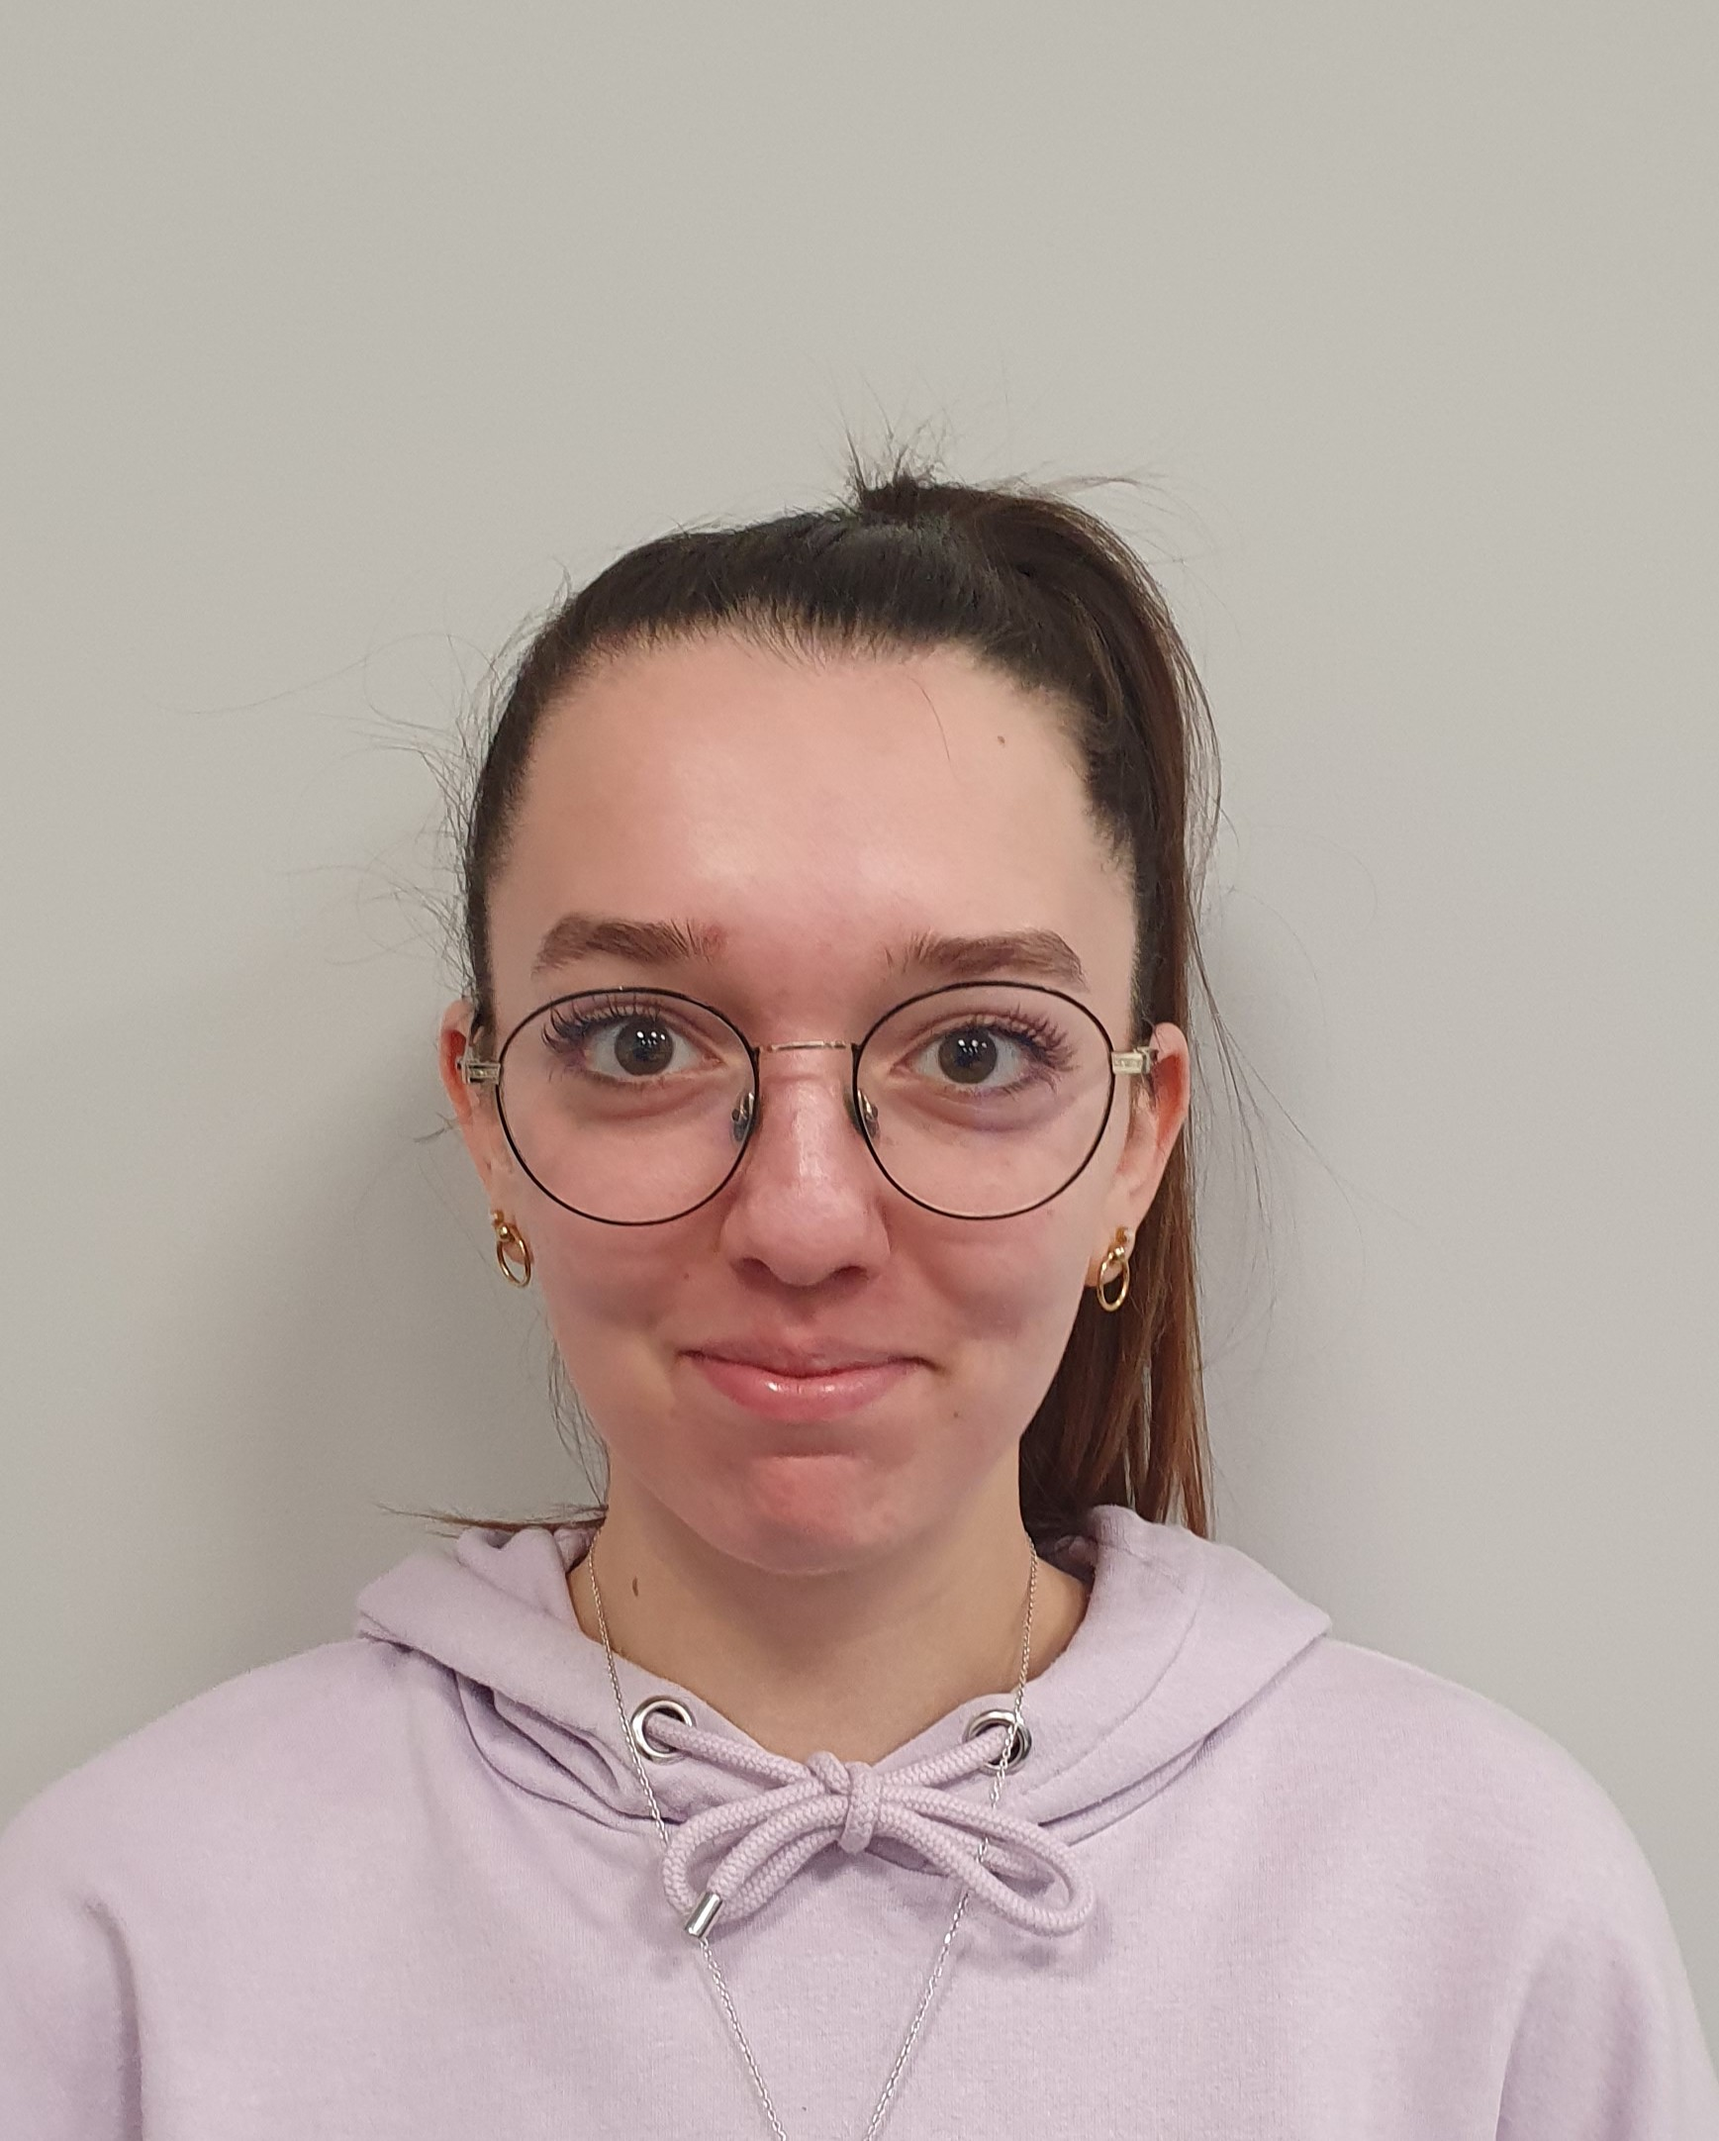
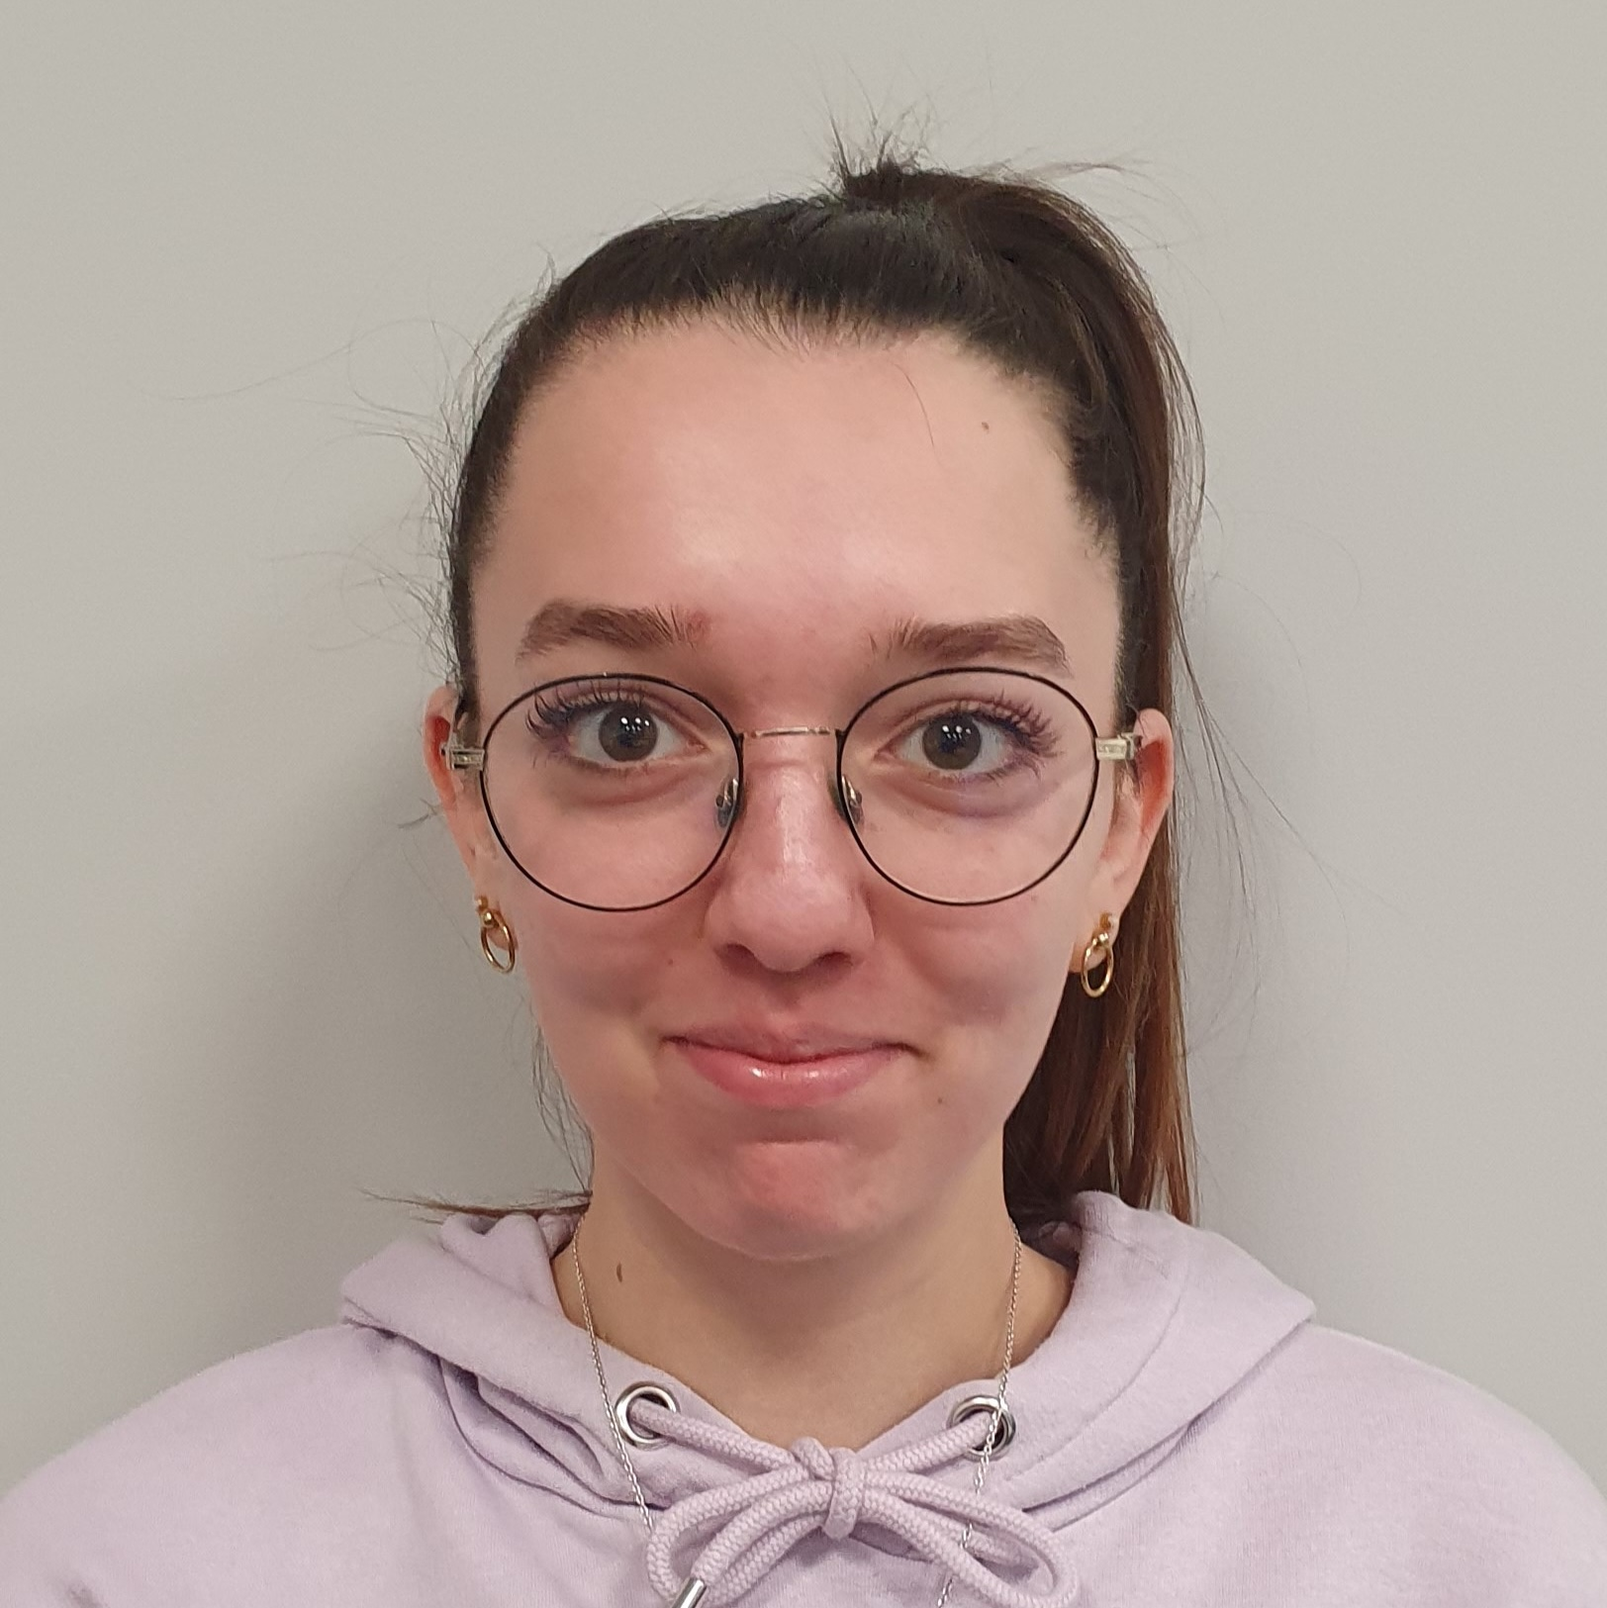
Refactor team member profiles and update images

diff --git a/equipe.html b/equipe.html
@@ -43,171 +43,76 @@
 							</div>
 						</div>
 
-						<div class="row pt-4">
-							<!-- Darvai Hugo -->
-							<div class="col-md-6 text-center py-4">
-								<div class="lc-block mt-2 py-2 border-top">
-									<h5><strong>Darvai Hugo</strong></h5>
-									<small class="text-secondary" style="letter-spacing: 1px">
-										Étudiant en Informatique et gestion à spécialité Intelligence Artificielle
-									</small>
-								</div>
-								<!-- /lc-block -->
-								<div class="lc-block">
-									<img
-										alt="Darvai Hugo"
-										class="rounded-circle mb-3"
-										src="https://images.unsplash.com/photo-1574698550747-3f839e813107?ixlib=rb-1.2.1&ixid=eyJhcHBfaWQiOjEyMDd9&auto=format&fit=crop&w=772&q=80"
-										style="height: 10vh"
-										loading="lazy"
-									/>
-									<div>
-										<p>Description Hugo</p>
+						<div class="row justify-content-center pb-5">
+							<div class="card col-md-4 mt-100">
+								<div class="card-content">
+									<div class="card-body p-0">
+										<div class="profile"><img src="images/hugo.jpeg" /></div>
+										<div class="card-title mt-4">
+											Hugo DARVAI<br />
+											<small>titre</small>
+										</div>
+										<div class="card-subtitle">
+											<p>
+												<small class="text-muted">
+													Étudiant en Informatique et gestion à spécialité Intelligence Artificielle
+												</small>
+											</p>
+										</div>
 									</div>
 								</div>
 							</div>
-
-							<!-- Muscato Aysel -->
-							<div class="col-md-6 text-center py-4">
-								<div class="lc-block mt-2 py-2 border-top">
-									<h5><strong>Muscato Aysel </strong></h5>
-									<small class="text-secondary" style="letter-spacing: 1px">
-										Étudiante en Informatique et gestion à spécialité Intelligence Artificielle
-									</small>
-								</div>
-								<!-- /lc-block -->
-								<div class="lc-block">
-									<img
-										alt="Muscato Aysel"
-										class="rounded-circle mb-3"
-										src="https://images.unsplash.com/photo-1574698550747-3f839e813107?ixlib=rb-1.2.1&ixid=eyJhcHBfaWQiOjEyMDd9&auto=format&fit=crop&w=772&q=80"
-										style="height: 10vh"
-										loading="lazy"
-									/>
-									<div>
-										<p>Description Aysel</p>
+							<div class="card col-md-4 mt-100">
+								<div class="card-content">
+									<div class="card-body p-0">
+										<div class="profile"><img src="images/aysel.jpg" /></div>
+										<div class="card-title mt-4">
+											Aysel MUSCATO<br />
+											<small>titre</small>
+										</div>
+										<div class="card-subtitle">
+											<p>
+												<small class="text-muted">
+													Étudiant en Informatique et gestion à spécialité Intelligence Artificielle
+												</small>
+											</p>
+										</div>
 									</div>
 								</div>
 							</div>
-						</div>
-
-						<div class="row pt-4">
-							<!-- Robette Marion -->
-							<div class="col-md-6 text-center py-4">
-								<div class="lc-block mt-2 py-2 border-top">
-									<h5><strong>Robette Marion</strong></h5>
-									<small class="text-secondary" style="letter-spacing: 1px">
-										Étudiante en Informatique et gestion à spécialité Intelligence Artificielle
-									</small>
-								</div>
-								<!-- /lc-block -->
-								<div class="lc-block">
-									<img
-										alt="Robette Marion"
-										class="rounded-circle mb-3"
-										src="https://images.unsplash.com/photo-1574698550747-3f839e813107?ixlib=rb-1.2.1&ixid=eyJhcHBfaWQiOjEyMDd9&auto=format&fit=crop&w=772&q=80"
-										style="height: 10vh"
-										loading="lazy"
-									/>
-									<div>
-										<p>Description Marion</p>
+							<div class="card col-md-4 mt-100">
+								<div class="card-content">
+									<div class="card-body p-0">
+										<div class="profile"><img src="images/marion.jpg" /></div>
+										<div class="card-title mt-4">
+											Marion ROBETTE<br />
+											<small>titre</small>
+										</div>
+										<div class="card-subtitle">
+											<p>
+												<small class="text-muted">
+													Étudiante en Informatique et gestion à spécialité Intelligence Artificielle
+												</small>
+											</p>
+										</div>
 									</div>
 								</div>
 							</div>
-
-							<!-- Ye Hao -->
-							<div class="col-md-6 text-center py-4">
-								<div class="lc-block mt-2 py-2 border-top">
-									<h5><strong>Ye Hao</strong></h5>
-									<small class="text-secondary" style="letter-spacing: 1px">
-										Étudiant en Informatique et gestion à spécialité Intelligence Artificielle
-									</small>
-								</div>
-								<!-- /lc-block -->
-								<div class="lc-block">
-									<img alt="Ye Hao" class="rounded-circle mb-3" src="images/Hao.jpg" style="height: 10vh" loading="lazy" />
-									<div>
-										<p>Description Hao</p>
-									</div>
-								</div>
-							</div>
-						</div>
-					</div>
-
-					<div class="row justify-content-center pb-5">
-						<div class="card col-md-4 mt-100">
-							<div class="card-content">
-								<div class="card-body p-0">
-									<div class="profile"><img src="images/hugo.jpeg" /></div>
-									<div class="card-title mt-4">
-										Hugo DARVAI<br />
-										<small>titre</small>
-									</div>
-									<div class="card-subtitle">
-										<p>
-											<small class="text-muted">
-												Étudiant en Informatique et gestion à spécialité Intelligence Artificielle
-											</small>
-										</p>
-									</div>
-								</div>
-							</div>
-						</div>
-						<div class="card col-md-4 mt-100">
-							<div class="card-content">
-								<div class="card-body p-0">
-									<div class="profile"><img src="images/aysel.jpg" /></div>
-									<div class="card-title mt-4">
-										Aysel MUSCATO<br />
-										<small>titre</small>
-									</div>
-									<div class="card-subtitle">
-										<p>
-											<small class="text-muted">
-												Étudiant en Informatique et gestion à spécialité Intelligence Artificielle
-											</small>
-										</p>
-									</div>
-								</div>
-							</div>
-						</div>
-						<div class="card col-md-4 mt-100">
-							<div class="card-content">
-								<div class="card-body p-0">
-									<div class="profile"><img src="https://res.cloudinary.com/dxfq3iotg/image/upload/v1574583246/AAA/2.jpg" /></div>
-									<div class="card-title mt-4">
-										Marion ROBETTE<br />
-										<small>titre</small>
-									</div>
-									<div class="profile"><img src="images/marion.jpg" /></div>
-									<div class="card-title mt-4">
-										Marion ROBETTE<br />
-										<small>titre</small>
-									</div>
-									<div class="card-subtitle">
-										<p>
-											<small class="text-muted">
-												Étudiante en Informatique et gestion à spécialité Intelligence Artificielle
-											</small>
-										</p>
-									</div>
-								</div>
-							</div>
-						</div>
-						<div class="card col-md-4 mt-100">
-							<div class="card-content">
-								<div class="card-body p-0">
-									<div class="profile"><img src="images/Hao.jpg" /></div>
-									<div class="card-title mt-4">
-										Hao YE<br />
-										<small>titre</small>
-									</div>
-									<div class="card-subtitle">
-										<p>
-											<small class="text-muted">
-												Étudiant en Informatique et gestion à spécialité Intelligence Artificielle
-											</small>
-										</p>
+							<div class="card col-md-4 mt-100">
+								<div class="card-content">
+									<div class="card-body p-0">
+										<div class="profile"><img src="images/Hao.jpg" /></div>
+										<div class="card-title mt-4">
+											Hao YE<br />
+											<small>titre</small>
+										</div>
+										<div class="card-subtitle">
+											<p>
+												<small class="text-muted">
+													Étudiant en Informatique et gestion à spécialité Intelligence Artificielle
+												</small>
+											</p>
+										</div>
 									</div>
 								</div>
 							</div>
